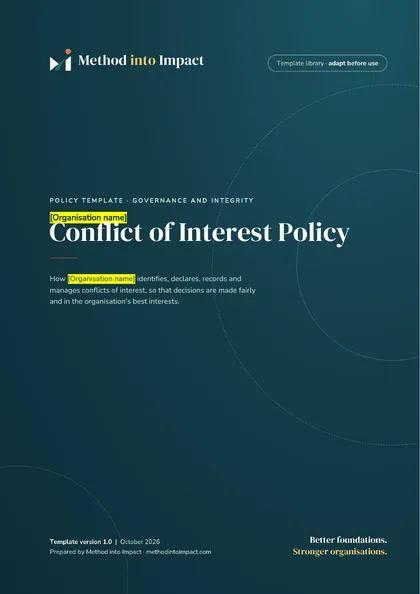
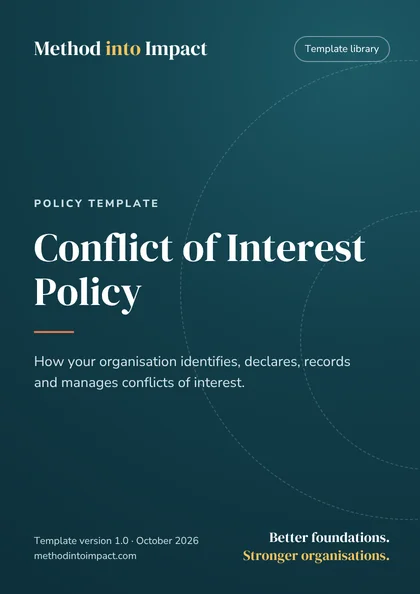
Legal templates: redraw the 3 free template covers so titles no longer overlap
Claude-Session: https://claude.ai/code/session_012WEC1qutQtsV9VUQGDVAHW

diff --git a/legal-templates.html b/legal-templates.html
@@ -1,6 +1,6 @@
 <!doctype html><html lang="en"><head><meta charset="utf-8"><meta name="viewport" content="width=device-width,initial-scale=1"><title>Legal Templates | Method into Impact</title><meta name="description" content="Editable Word templates for policies, procedures, contracts, consent forms and governance. Each one has model wording, highlighted fields to fill in and guidance boxes to help you adapt it to your organisation and country."><meta name="robots" content="noindex, nofollow"><link rel="preconnect" href="https://fonts.googleapis.com" crossorigin>
 <link rel="preconnect" href="https://fonts.gstatic.com" crossorigin>
 <link rel="stylesheet" href="https://fonts.googleapis.com/css2?family=DM+Serif+Display:ital@0;1&family=Nunito+Sans:opsz,wght@6..12,400;6..12,600;6..12,700;6..12,800;6..12,900&display=swap">
-<link rel="stylesheet" href="styles.css?v=consent-1"><link rel="stylesheet" href="mission.css?v=nav-courses-1"><link rel="stylesheet" href="learning.css?v=course41"><link rel="stylesheet" href="pricing.css"><link rel="stylesheet" href="legal-templates.css?v=free-1"><script src="assets/js/legal-download-gate.js?v=1" defer></script><script src="assets/js/free-templates.js?v=1" defer></script></head><body><a class="skip-link" href="#main">Skip to content</a><nav class="nav" aria-label="Main navigation"></nav><div class="preview-note">We’re putting the final details in place. Courses and resources launch soon; the consultancy is open now. Start a conversation anytime.</div><main id="main"><div class="catalog legal-catalog"><span class="eyebrow">Document library · 51 editable templates</span><h1>Legal Templates</h1><p class="lead">Editable Word templates for policies, procedures, contracts, consent forms and governance. Each one has model wording, highlighted fields to fill in and guidance boxes to help you adapt it to your organisation and country.</p><section class="ft-block" id="free-templates" aria-labelledby="ft-title"><div class="ft-text"><span class="ft-pill">Free</span><h2 id="ft-title">Start with three free templates</h2><p>Full, editable Word files, the same quality as the library. Yours to keep.</p><form class="ft-form" novalidate><label class="ft-label" for="ft-email">Your email</label><div class="ft-row"><input class="ft-email" id="ft-email" type="email" autocomplete="email" placeholder="you@organisation.org" required><button class="ft-btn" type="submit">Send me the 3 free templates</button></div><p class="ft-error" aria-live="polite"></p><label class="ft-consent"><input type="checkbox" name="marketing"> Also send me occasional emails about new courses and templates. Unsubscribe anytime.</label><p class="ft-small">We use your email to send the templates. See our <a href="legal.html#privacy">privacy notice</a>.</p></form><div class="ft-done" hidden><p class="ft-done-title">Your 3 templates are downloading.</p><p>Didn't get them? <button class="ft-again" type="button">Download again</button></p></div></div><div class="ft-covers"><figure class="ft-cover"><img src="assets/legal-templates/covers/legal-review-checklist.webp" alt="Cover of the Legal Review Checklist template" width="420" height="594" loading="lazy"><figcaption><b>Legal Review Checklist</b><span>Governance &amp; compliance</span></figcaption></figure><figure class="ft-cover"><img src="assets/legal-templates/covers/conflict-of-interest-policy.webp" alt="Cover of the Conflict of Interest Policy template" width="420" height="594" loading="lazy"><figcaption><b>Conflict of Interest Policy</b><span>Policies &amp; procedures</span></figcaption></figure><figure class="ft-cover"><img src="assets/legal-templates/covers/mutual-confidentiality-agreement.webp" alt="Cover of the Mutual Confidentiality Agreement template" width="420" height="594" loading="lazy"><figcaption><b>Mutual Confidentiality Agreement</b><span>Contracts &amp; agreements</span></figcaption></figure></div></section><aside class="legal-notice" aria-labelledby="legal-notice-title"><h2 id="legal-notice-title">Templates, not legal advice</h2><p>Each template is a general starting point written for small purpose-led organisations and entrepreneurs in different countries. Before you adopt, sign or publish one, adapt it to your organisation and have a qualified adviser check it against the law where you operate, your funders’ conditions and your sector’s rules.</p><p>Method into Impact does not guarantee that a template is complete, current, suitable or enforceable for your circumstances, and using one does not create an adviser–client relationship. You are responsible for getting advice and approving the final document. Nothing here limits rights or duties that cannot lawfully be excluded.</p></aside><section class="legal-category-grid" aria-label="Legal template categories"><article class="legal-category-card"><span class="eyebrow">28 editable templates</span><h2>Policies &amp; procedures</h2><p>Policies set out the rules and commitments your organisation follows. Procedures set out the steps people take to put them into practice: who does what, by when, and what is recorded.</p><a class="button ghost" href="legal-templates-policies.html">Explore Policies &amp; procedures →</a></article><article class="legal-category-card"><span class="eyebrow">10 editable templates</span><h2>Contracts &amp; agreements</h2><p>Contracts and agreements record what parties expect from one another, including work, payment, information, rights and ways to end or resolve a relationship.</p><a class="button ghost" href="legal-templates-contracts-and-agreements.html">Explore Contracts &amp; agreements →</a></article><article class="legal-category-card"><span class="eyebrow">4 editable templates</span><h2>Consent forms</h2><p>Consent forms help people understand a specific activity or use of their information and record a clear choice where consent is appropriate.</p><a class="button ghost" href="legal-templates-consent-forms.html">Explore Consent forms →</a></article><article class="legal-category-card"><span class="eyebrow">9 editable templates</span><h2>Governance &amp; compliance</h2><p>Governance and compliance documents help leaders oversee decisions, keep records and check that required duties are being met.</p><a class="button ghost" href="legal-templates-governance-and-compliance.html">Explore Governance &amp; compliance →</a></article></section><section class="legal-review"><h2>How each template works</h2><ol><li><strong>Fill in the yellow fields</strong> with your organisation’s details: names, roles, amounts, time limits and countries.</li><li><strong>Work through the orange “Adapt this” boxes.</strong> Each one explains a decision to make and gives options and country notes. Delete the box when you are done.</li><li><strong>Cut what does not apply</strong>, so the document stays proportionate to your size.</li><li><strong>Ask a qualified adviser</strong> in your country to check the final wording. The Legal Review Checklist helps you prepare.</li><li><strong>Approve, date and share it.</strong> Record the approval, set a review date and make sure people know it exists.</li></ol></section></div></main><footer></footer><script type="module" src="i18n.js?v=prices-3"></script>
+<link rel="stylesheet" href="styles.css?v=consent-1"><link rel="stylesheet" href="mission.css?v=nav-courses-1"><link rel="stylesheet" href="learning.css?v=course41"><link rel="stylesheet" href="pricing.css"><link rel="stylesheet" href="legal-templates.css?v=free-1"><script src="assets/js/legal-download-gate.js?v=1" defer></script><script src="assets/js/free-templates.js?v=1" defer></script></head><body><a class="skip-link" href="#main">Skip to content</a><nav class="nav" aria-label="Main navigation"></nav><div class="preview-note">We’re putting the final details in place. Courses and resources launch soon; the consultancy is open now. Start a conversation anytime.</div><main id="main"><div class="catalog legal-catalog"><span class="eyebrow">Document library · 51 editable templates</span><h1>Legal Templates</h1><p class="lead">Editable Word templates for policies, procedures, contracts, consent forms and governance. Each one has model wording, highlighted fields to fill in and guidance boxes to help you adapt it to your organisation and country.</p><section class="ft-block" id="free-templates" aria-labelledby="ft-title"><div class="ft-text"><span class="ft-pill">Free</span><h2 id="ft-title">Start with three free templates</h2><p>Full, editable Word files, the same quality as the library. Yours to keep.</p><form class="ft-form" novalidate><label class="ft-label" for="ft-email">Your email</label><div class="ft-row"><input class="ft-email" id="ft-email" type="email" autocomplete="email" placeholder="you@organisation.org" required><button class="ft-btn" type="submit">Send me the 3 free templates</button></div><p class="ft-error" aria-live="polite"></p><label class="ft-consent"><input type="checkbox" name="marketing"> Also send me occasional emails about new courses and templates. Unsubscribe anytime.</label><p class="ft-small">We use your email to send the templates. See our <a href="legal.html#privacy">privacy notice</a>.</p></form><div class="ft-done" hidden><p class="ft-done-title">Your 3 templates are downloading.</p><p>Didn't get them? <button class="ft-again" type="button">Download again</button></p></div></div><div class="ft-covers"><figure class="ft-cover"><img src="assets/legal-templates/covers/legal-review-checklist.webp?v=2" alt="Cover of the Legal Review Checklist template" width="420" height="594" loading="lazy"><figcaption><b>Legal Review Checklist</b><span>Governance &amp; compliance</span></figcaption></figure><figure class="ft-cover"><img src="assets/legal-templates/covers/conflict-of-interest-policy.webp?v=2" alt="Cover of the Conflict of Interest Policy template" width="420" height="594" loading="lazy"><figcaption><b>Conflict of Interest Policy</b><span>Policies &amp; procedures</span></figcaption></figure><figure class="ft-cover"><img src="assets/legal-templates/covers/mutual-confidentiality-agreement.webp?v=2" alt="Cover of the Mutual Confidentiality Agreement template" width="420" height="594" loading="lazy"><figcaption><b>Mutual Confidentiality Agreement</b><span>Contracts &amp; agreements</span></figcaption></figure></div></section><aside class="legal-notice" aria-labelledby="legal-notice-title"><h2 id="legal-notice-title">Templates, not legal advice</h2><p>Each template is a general starting point written for small purpose-led organisations and entrepreneurs in different countries. Before you adopt, sign or publish one, adapt it to your organisation and have a qualified adviser check it against the law where you operate, your funders’ conditions and your sector’s rules.</p><p>Method into Impact does not guarantee that a template is complete, current, suitable or enforceable for your circumstances, and using one does not create an adviser–client relationship. You are responsible for getting advice and approving the final document. Nothing here limits rights or duties that cannot lawfully be excluded.</p></aside><section class="legal-category-grid" aria-label="Legal template categories"><article class="legal-category-card"><span class="eyebrow">28 editable templates</span><h2>Policies &amp; procedures</h2><p>Policies set out the rules and commitments your organisation follows. Procedures set out the steps people take to put them into practice: who does what, by when, and what is recorded.</p><a class="button ghost" href="legal-templates-policies.html">Explore Policies &amp; procedures →</a></article><article class="legal-category-card"><span class="eyebrow">10 editable templates</span><h2>Contracts &amp; agreements</h2><p>Contracts and agreements record what parties expect from one another, including work, payment, information, rights and ways to end or resolve a relationship.</p><a class="button ghost" href="legal-templates-contracts-and-agreements.html">Explore Contracts &amp; agreements →</a></article><article class="legal-category-card"><span class="eyebrow">4 editable templates</span><h2>Consent forms</h2><p>Consent forms help people understand a specific activity or use of their information and record a clear choice where consent is appropriate.</p><a class="button ghost" href="legal-templates-consent-forms.html">Explore Consent forms →</a></article><article class="legal-category-card"><span class="eyebrow">9 editable templates</span><h2>Governance &amp; compliance</h2><p>Governance and compliance documents help leaders oversee decisions, keep records and check that required duties are being met.</p><a class="button ghost" href="legal-templates-governance-and-compliance.html">Explore Governance &amp; compliance →</a></article></section><section class="legal-review"><h2>How each template works</h2><ol><li><strong>Fill in the yellow fields</strong> with your organisation’s details: names, roles, amounts, time limits and countries.</li><li><strong>Work through the orange “Adapt this” boxes.</strong> Each one explains a decision to make and gives options and country notes. Delete the box when you are done.</li><li><strong>Cut what does not apply</strong>, so the document stays proportionate to your size.</li><li><strong>Ask a qualified adviser</strong> in your country to check the final wording. The Legal Review Checklist helps you prepare.</li><li><strong>Approve, date and share it.</strong> Record the approval, set a review date and make sure people know it exists.</li></ol></section></div></main><footer></footer><script type="module" src="i18n.js?v=prices-3"></script>
 <script type="module" src="i18n.js?v=prices-3"></script>
 <script src="app.js?v=prices-4"></script></body></html>
